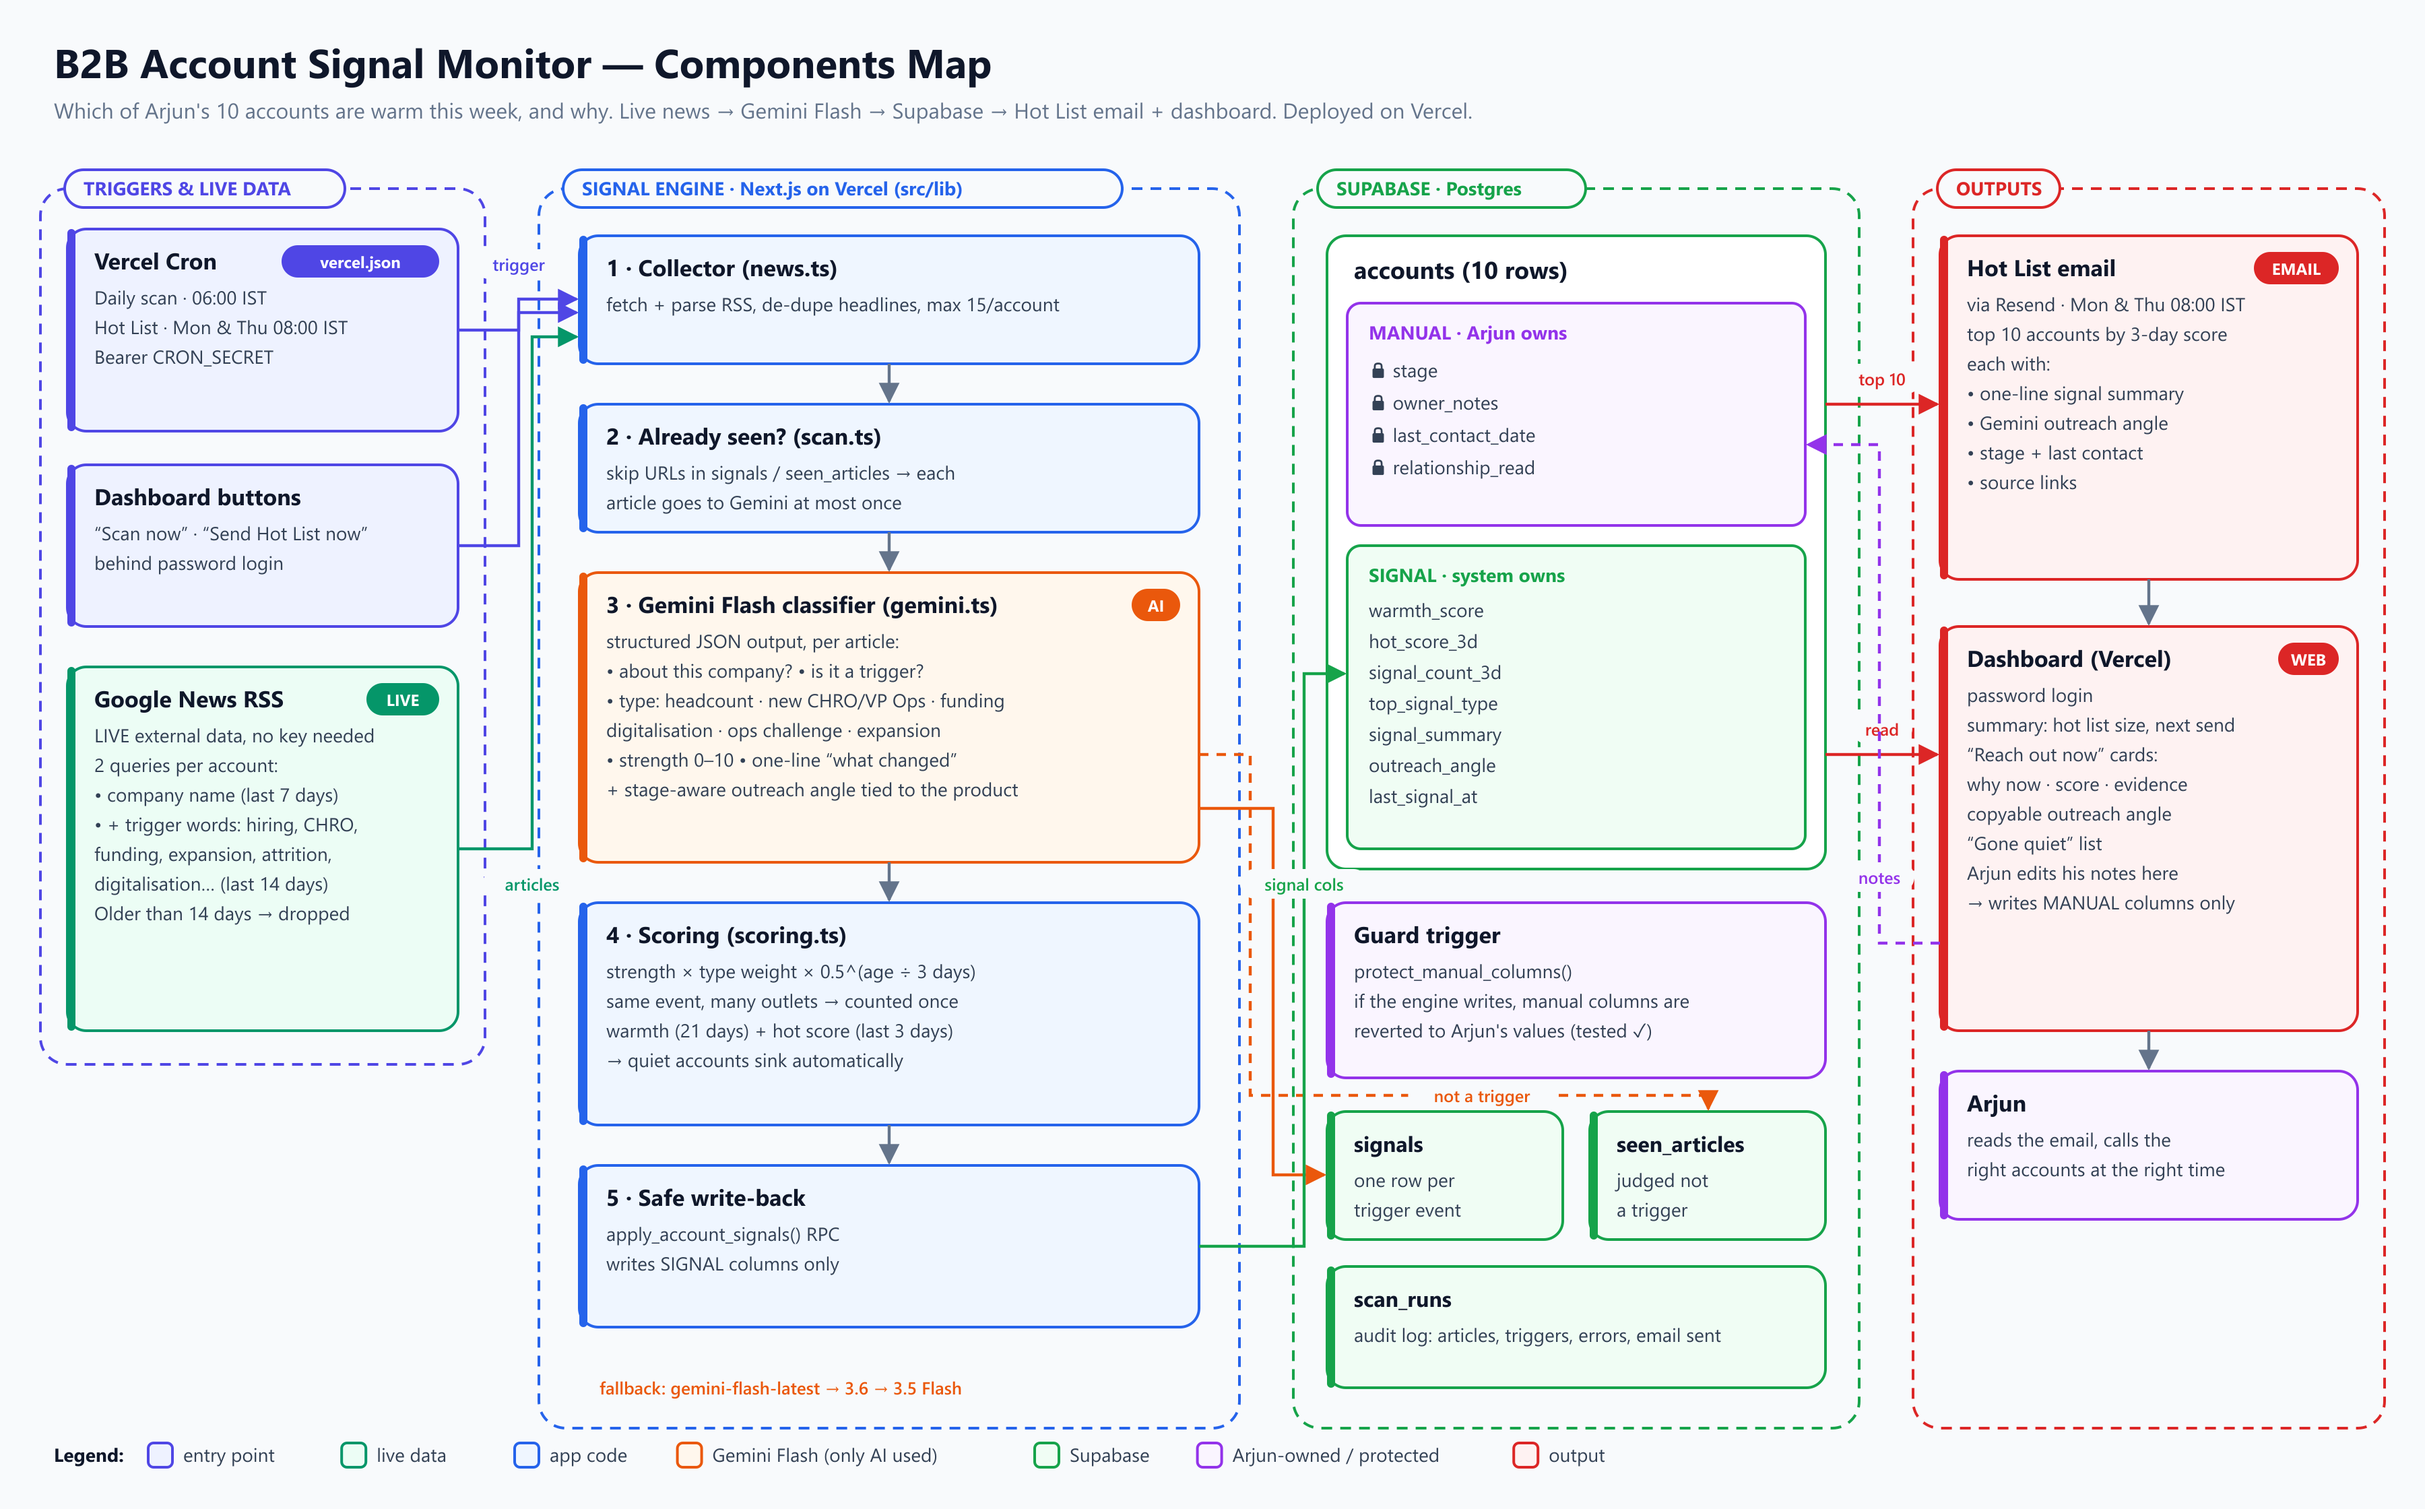
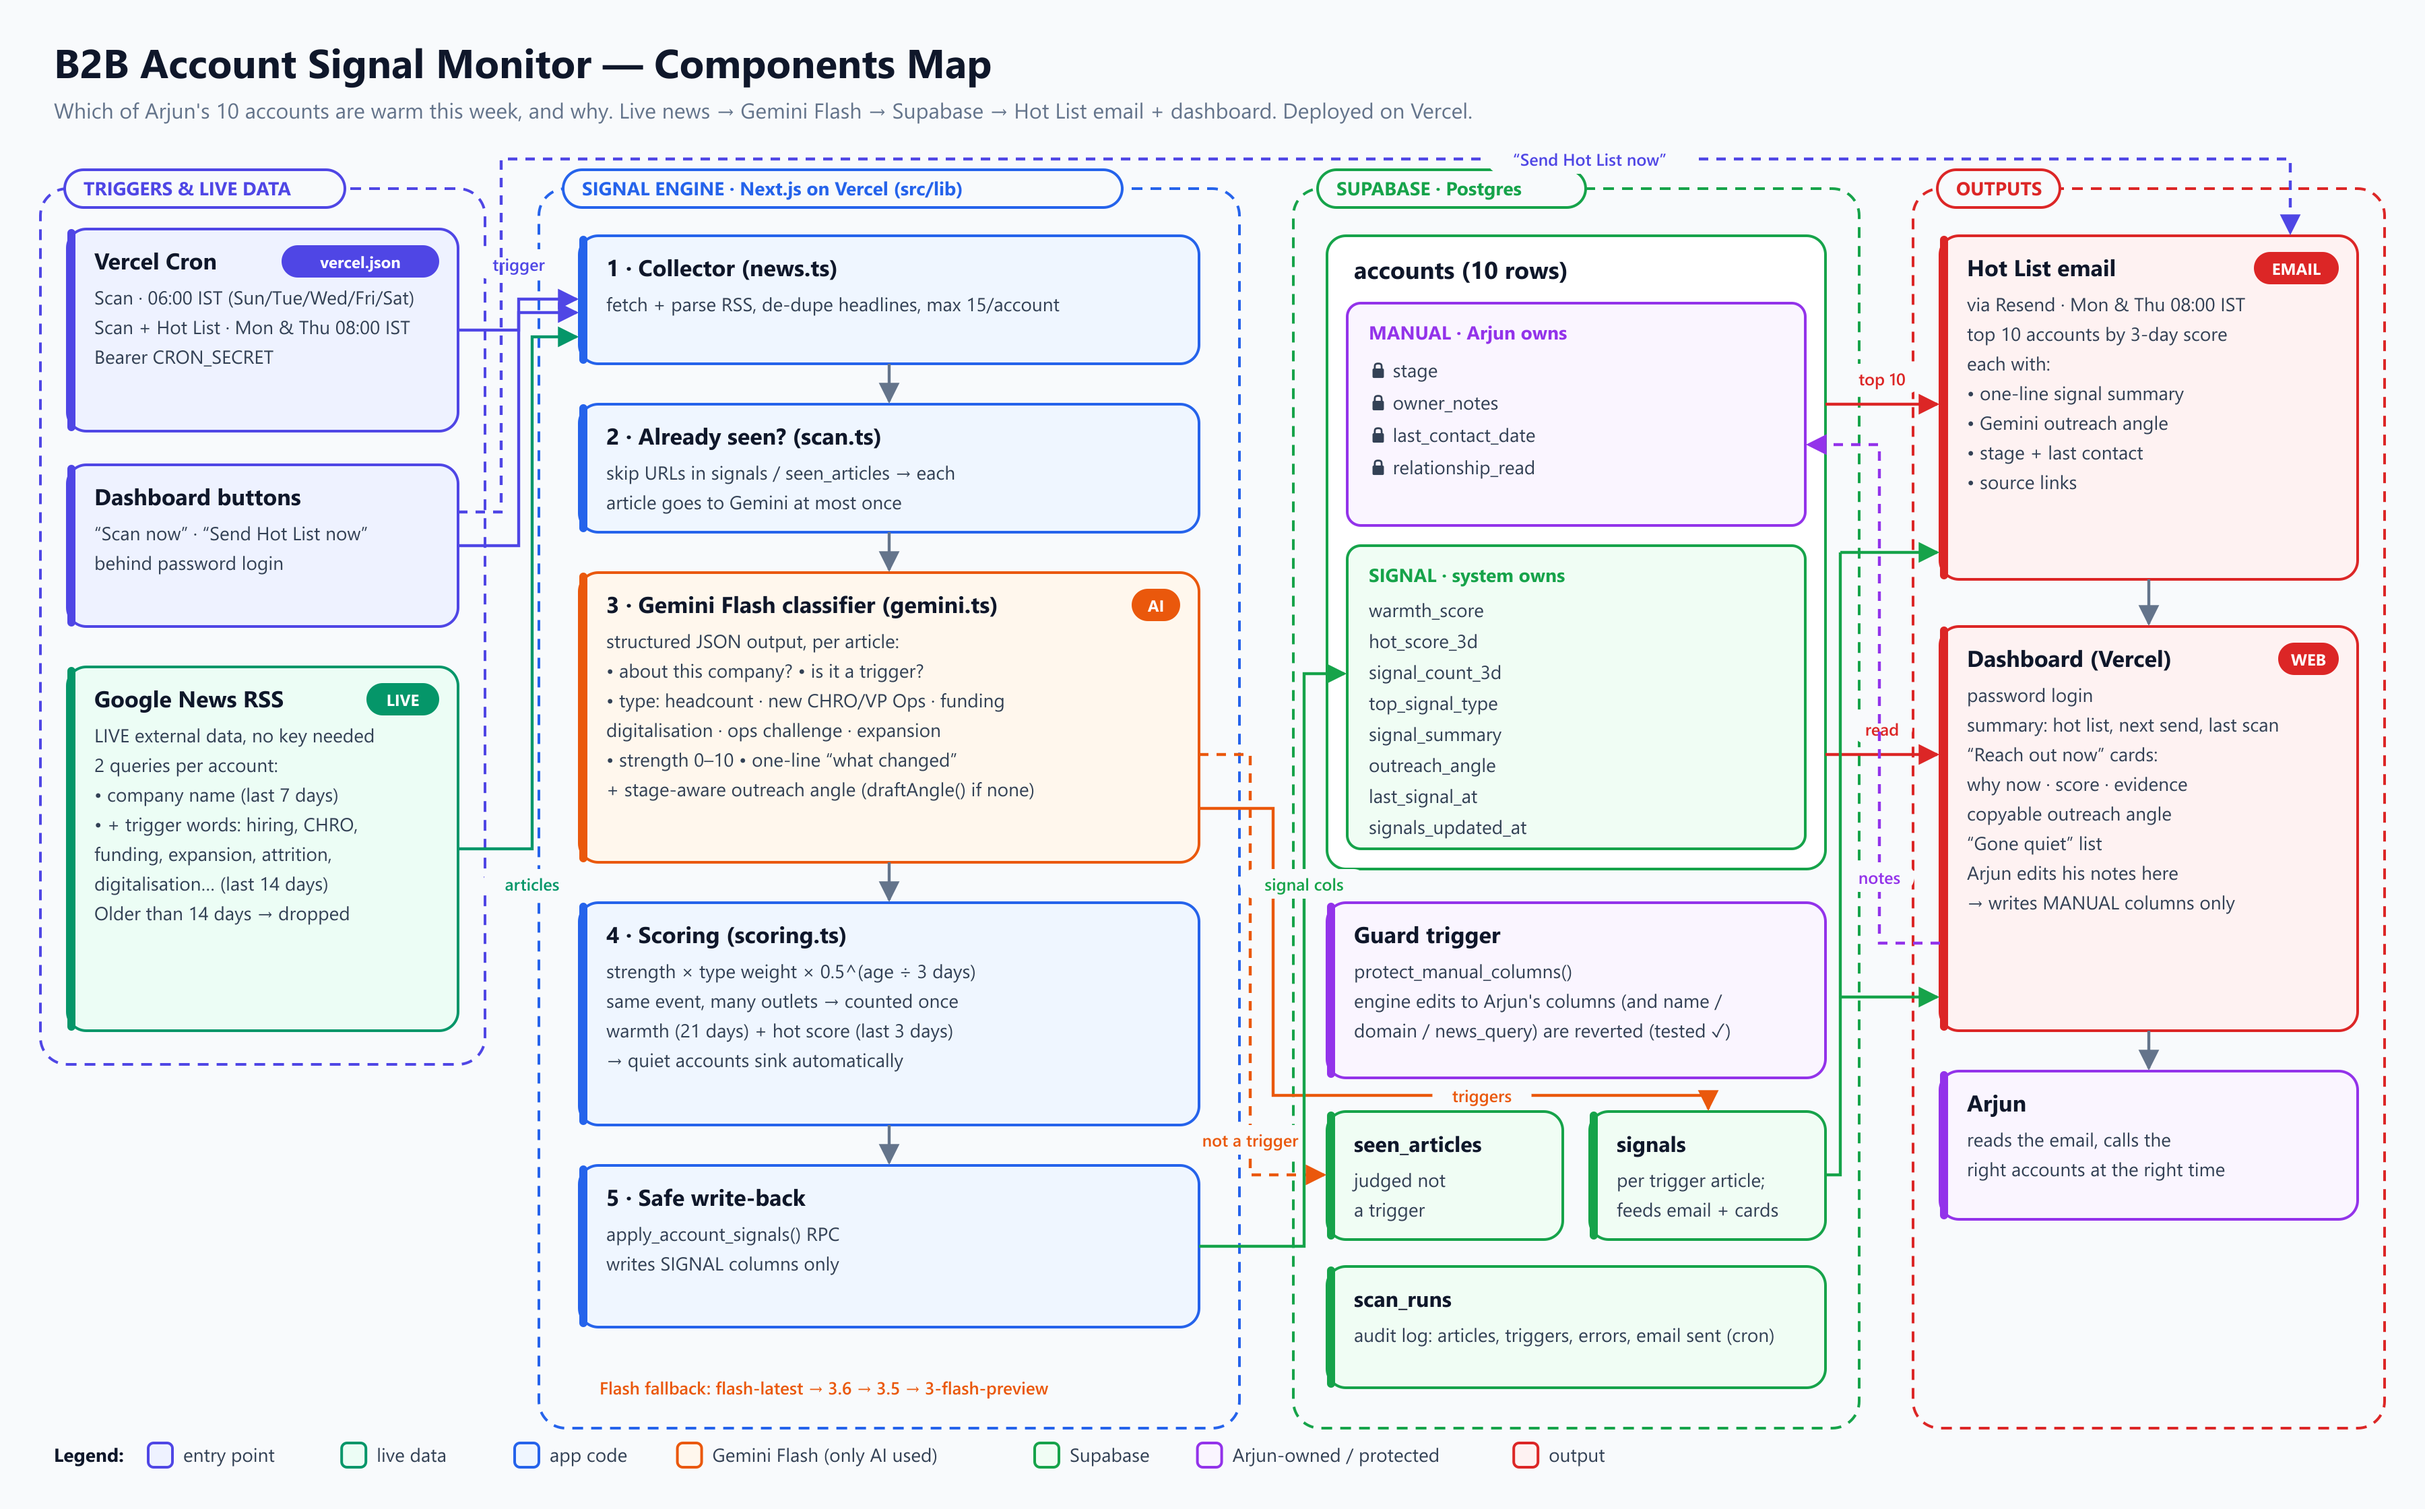
Components Map: match code exactly (cron days, draftAngle, full Flash fallback, signals feeds outputs, manual Send Hot List path)

diff --git a/COMPONENTS.md b/COMPONENTS.md
@@ -7,8 +7,8 @@
 ```mermaid
 flowchart LR
   subgraph Schedule["Vercel Cron"]
-    C1["/api/cron/scan<br/>daily 06:00 IST (Tue/Wed/Fri/Sat/Sun)"]
-    C2["/api/cron/hotlist<br/>Mon + Thu 08:00 IST"]
+    C1["/api/cron/scan<br/>06:00 IST Sun/Tue/Wed/Fri/Sat"]
+    C2["/api/cron/hotlist<br/>scan + email, Mon + Thu 08:00 IST"]
   end
 
   subgraph Sources["Live external data"]
